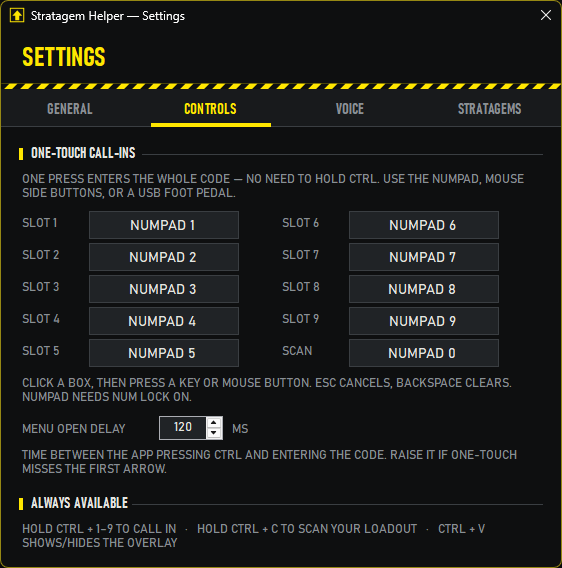
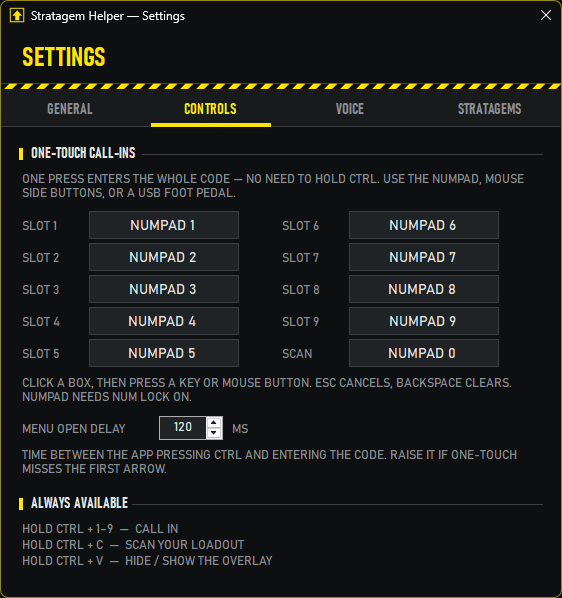
Tidy settings spacing and set version 1.0.0
- General tab: split into General and Overlay & sound; explanations and
  sound previews indented under their toggles (previews no longer
  clipped off the right edge)
- Controls tab: slot labels aligned with their key boxes; "Always
  available" shortcuts on separate lines
- Version 1.0.0, product name and description in the exe metadata
- Refreshed settings screenshots

diff --git a/StratagemHelper/SettingsForm.cs b/StratagemHelper/SettingsForm.cs
@@ -109,6 +109,15 @@ internal sealed class SettingsForm : Form
         MaximumSize = new Size(Inner, 0), Margin = new Padding(0, top, 0, 0),
     };
 
+    /// <summary>Label sized like an HdBindBox (28 px + 2 px margins) so grid rows line up.</summary>
+    private static Label GridLabel(string text)
+    {
+        var l = Theme.MutedLabel(text, 70);
+        l.Height = 28;
+        l.Margin = new Padding(0, 2, 0, 2);
+        return l;
+    }
+
     private static FlowLayoutPanel Row(int top = 0) => new() { AutoSize = true, Margin = new Padding(0, top, 0, 0), WrapContents = false };
 
     private void BuildUi()
@@ -157,18 +166,28 @@ internal sealed class SettingsForm : Form
     {
         var page = Page();
         page.Controls.Add(new SectionHeader("General") { Width = Inner, Margin = new Padding(0, 0, 0, 4) });
-        foreach (var t in new HdToggle[] { _enabledBox, _autoBox, _focusBox, _overlayBox, _startupBox })
+        foreach (var t in new HdToggle[] { _enabledBox, _autoBox, _focusBox, _startupBox })
         {
             t.Margin = new Padding(2, 1, 0, 1);
             page.Controls.Add(t);
         }
-        page.Controls.Add(Hint("The overlay lists your scanned slots while the game is focused. Ctrl+V hides/shows it in game. Needs borderless or windowed mode."));
 
-        var soundRow = Row(8);
-        _soundBox.Margin = new Padding(2, 1, 12, 0);
-        soundRow.Controls.Add(_soundBox);
-        var testOk = new HdButton("▶ Success") { Margin = new Padding(0, 0, 6, 0) };
-        var testFail = new HdButton("▶ Fail") { Margin = Padding.Empty };
+        // Overlay & sound: each toggle with its explanation / controls indented beneath it (aligned with the toggle text).
+        const int Indent = 30;
+        page.Controls.Add(new SectionHeader("Overlay & sound") { Width = Inner, Margin = new Padding(0, 16, 0, 4) });
+        _overlayBox.Margin = new Padding(2, 1, 0, 0);
+        page.Controls.Add(_overlayBox);
+        var overlayHint = Hint("Lists your scanned slots in the corner while the game is focused. Ctrl+V hides it until your next scan. Needs borderless or windowed mode.", 0);
+        overlayHint.Margin = new Padding(Indent, 0, 0, 8);
+        overlayHint.MaximumSize = new Size(Inner - Indent, 0);
+        page.Controls.Add(overlayHint);
+
+        _soundBox.Margin = new Padding(2, 1, 0, 2);
+        page.Controls.Add(_soundBox);
+        var soundRow = Row();
+        soundRow.Margin = new Padding(Indent, 0, 0, 0);
+        var testOk = new HdButton("▶ Preview success") { Margin = new Padding(0, 0, 8, 0) };
+        var testFail = new HdButton("▶ Preview fail") { Margin = Padding.Empty };
         testOk.Click += (_, _) => Sounds.Success();
         testFail.Click += (_, _) => Sounds.Failure();
         soundRow.Controls.Add(testOk);
@@ -231,13 +250,13 @@ internal sealed class SettingsForm : Form
         for (int i = 0; i < 9; i++)
         {
             int col = i < 5 ? 0 : 2, row = i < 5 ? i : i - 5;
-            grid.Controls.Add(Theme.MutedLabel($"SLOT {i + 1}", 70), col, row);
+            grid.Controls.Add(GridLabel($"SLOT {i + 1}"), col, row);
             _slotBinds[i].Margin = new Padding(0, 2, col == 0 ? 40 : 0, 2);
             grid.Controls.Add(_slotBinds[i], col + 1, row);
             int idx = i;
             Wire(_slotBinds[i], id => { _settings.SlotBindings[idx] = id; });
         }
-        grid.Controls.Add(Theme.MutedLabel("SCAN", 70), 2, 4);
+        grid.Controls.Add(GridLabel("SCAN"), 2, 4);
         _scanBind.Margin = new Padding(0, 2, 0, 2);
         grid.Controls.Add(_scanBind, 3, 4);
         Wire(_scanBind, id => _settings.ScanBinding = id);
@@ -253,7 +272,9 @@ internal sealed class SettingsForm : Form
         page.Controls.Add(Hint("Time between the app pressing Ctrl and entering the code. Raise it if one-touch misses the first arrow."));
 
         page.Controls.Add(new SectionHeader("Always available") { Width = Inner, Margin = new Padding(0, 16, 0, 4) });
-        page.Controls.Add(Hint("Hold Ctrl + 1–9 to call in   ·   Hold Ctrl + C to scan your loadout   ·   Ctrl + V shows/hides the overlay", 0));
+        page.Controls.Add(Hint("Hold Ctrl + 1–9  \u2014  call in", 0));
+        page.Controls.Add(Hint("Hold Ctrl + C  \u2014  scan your loadout", 2));
+        page.Controls.Add(Hint("Hold Ctrl + V  \u2014  hide / show the overlay", 2));
 
         _menuDelayNum.ValueChanged += (_, _) => Change(() => _settings.MenuOpenDelayMs = (int)_menuDelayNum.Value);
         return page;
